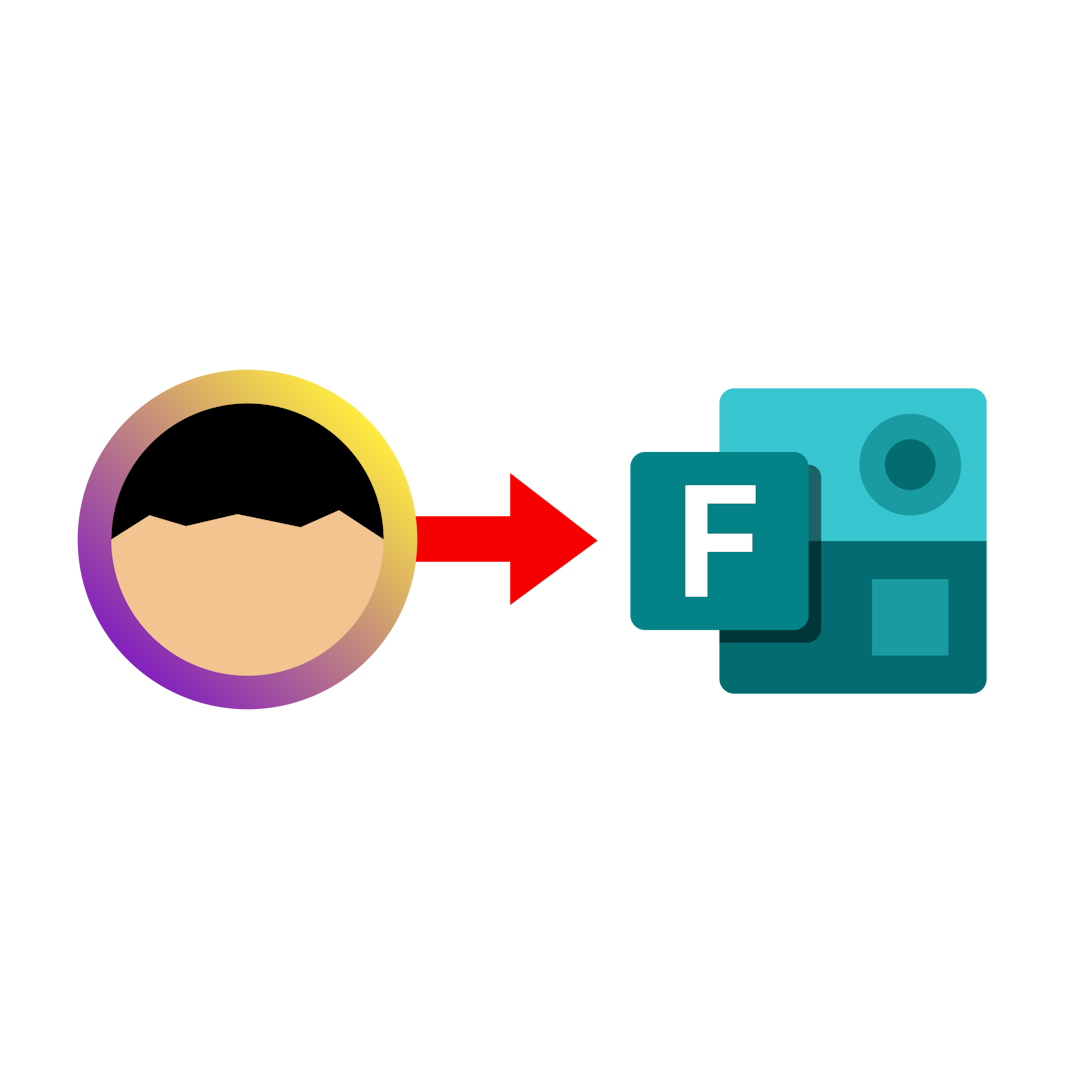
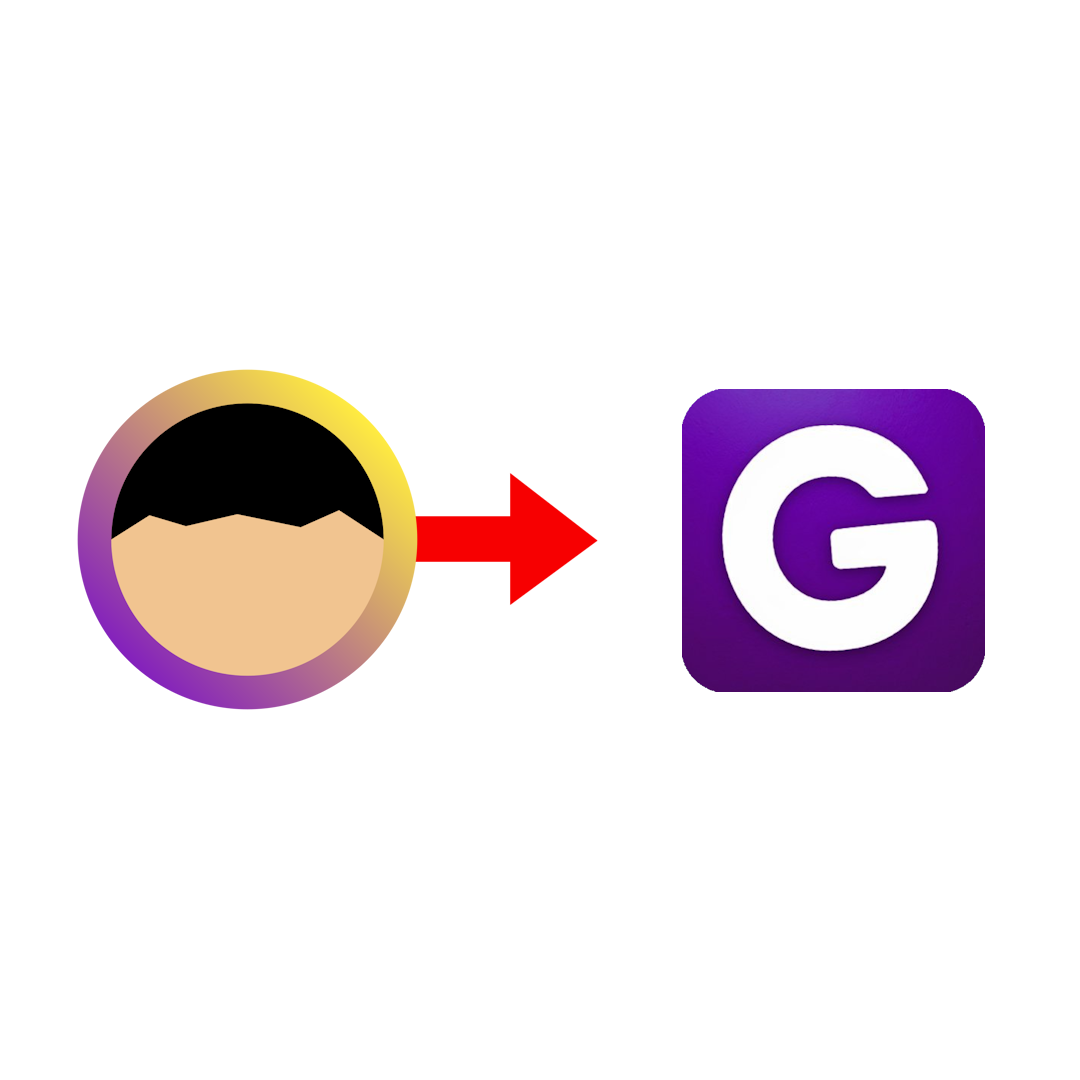
Upload instruction slides

Changed region(s): [[0.5806, 0.3361, 0.9167, 0.6417]]

diff --git a/quiz_gen/templates/quiz_gen/quiz_gen.html b/quiz_gen/templates/quiz_gen/quiz_gen.html
@@ -157,8 +157,8 @@
         <h4 id="modalTitle"></h4>
         <img id="modalImg" src="" alt="Screenshot">
         <p id="modalDesc"></p>
-        <a id="forms-previous-slide" class="modal-nav">&larr; Previous step</a>
-        <a id="forms-next-slide" class="modal-nav">Next step &rarr;</a>
+        <a id="forms-previous-slide" class="modal-nav previous-slide">&larr; Previous step</a>
+        <a id="forms-next-slide" class="modal-nav next-slide">Next step &rarr;</a>
       </div>
 
       <!-- Worksheet quiz guide -->
@@ -180,8 +180,8 @@
           <h4 id="blooketModalTitle"></h4>
           <img id="blooketModalImg" src="" alt="Blooket instructions">
           <p id="blooketModalDesc"></p>
-          <a id="blooket-previous-slide" class="modal-nav">&larr; Previous step</a>
-          <a id="blooket-next-slide" class="modal-nav">Next step &rarr;</a>
+          <a id="blooket-previous-slide" class="modal-nav previous-slide">&larr; Previous step</a>
+          <a id="blooket-next-slide" class="modal-nav next-slide">Next step &rarr;</a>
       </div>
 
       <!-- Gimkit quiz guide -->
@@ -189,8 +189,8 @@
           <h4 id="gimkitModalTitle"></h4>
           <img id="gimkitModalImg" src="" alt="Gimkit instructions">
           <p id="gimkitModalDesc"></p>
-          <a id="gimkit-previous-slide" class="modal-nav">&larr; Previous step</a>
-          <a id="gimkit-next-slide" class="modal-nav">Next step &rarr;</a>
+          <a id="gimkit-previous-slide" class="modal-nav previous-slide">&larr; Previous step</a>
+          <a id="gimkit-next-slide" class="modal-nav next-slide">Next step &rarr;</a>
       </div>
       
   </div>
@@ -220,10 +220,10 @@
   window.gimkitImages = {
     slide0: "{% static 'quiz_gen/images/gimkit-slides/slide-0.png' %}",
     slide1: "{% static 'quiz_gen/images/gimkit-slides/slide-1.png' %}",
-    slide2: "{% static 'quiz_gen/images/gimkit-slides/slide-2.png' %}",
+    slide2: "{% static 'quiz_gen/images/gimkit-slides/slide-2.gif' %}",
     slide3: "{% static 'quiz_gen/images/gimkit-slides/slide-3.png' %}",
-    slide4: "{% static 'quiz_gen/images/gimkit-slides/slide-4.png' %}",
-    slide5: "{% static 'quiz_gen/images/gimkit-slides/slide-5.png' %}"
+    slide4: "{% static 'quiz_gen/images/gimkit-slides/slide-4.gif' %}",
+    slide5: "{% static 'quiz_gen/images/gimkit-slides/slide-5.gif' %}"
   };
 </script>
 <script src="{% static 'quiz_gen/js/quiz_gen.js' %}"></script>

diff --git a/quiz_gen/static/quiz_gen/js/quiz_gen.js b/quiz_gen/static/quiz_gen/js/quiz_gen.js
@@ -102,13 +102,13 @@ const gimkitSlides = [
         image: window.gimkitImages.slide0
     },
     {
-        title: "Opening Blooket (1/5)",
+        title: "Opening Gimkit (1/5)",
         description: "First, click <a href='https://www.gimkit.com/' target='_blank'>here</a> to open Gimkit (opens in a new tab).<br>You will need to be signed in to use the site.",
         image: window.gimkitImages.slide1
     },
     {
         title: "Creating a Question Set (2/5)",
-        description: "Click <strong>(+) New Kit</strong>, fill in your <strong>quiz details</strong>, and select a <strong>cover image</strong>.",
+        description: "Click <strong>New Kit</strong>, fill in your <strong>quiz details</strong>, and select a <strong>cover image</strong>.",
         image: window.gimkitImages.slide2
     },
     {
@@ -118,7 +118,7 @@ const gimkitSlides = [
     },
     {
         title: "Importing your Quiz (4/5)",
-        description: "Click <strong>Upload File</strong> and select the Gimkit CSV file which has been downloaded to your device. Gimkit will import the questions and answers into your question set.",
+        description: "Click <strong>Upload File</strong> and select the <strong>Gimkit Quiz</strong> file which has been downloaded to your device. Gimkit will import the questions and answers into your question set.",
         image: window.gimkitImages.slide4
     },
     {

diff --git a/quiz_gen/static/quiz_gen/css/quiz_gen.css b/quiz_gen/static/quiz_gen/css/quiz_gen.css
@@ -108,11 +108,11 @@ p#terms_msg {
 .app-modal-content a.modal-nav:hover {
 transform: scale(1.1);
 }
-.app-modal-content a#forms-previous-slide, .app-modal-content a#blooket-previous-slide {
+.previous-slide {
     bottom: 1rem;
     left: 2rem;
 }
-.app-modal-content a#forms-next-slide, .app-modal-content a#blooket-next-slide {
+.next-slide {
     bottom: 1rem;
     right: 2rem;
 }
